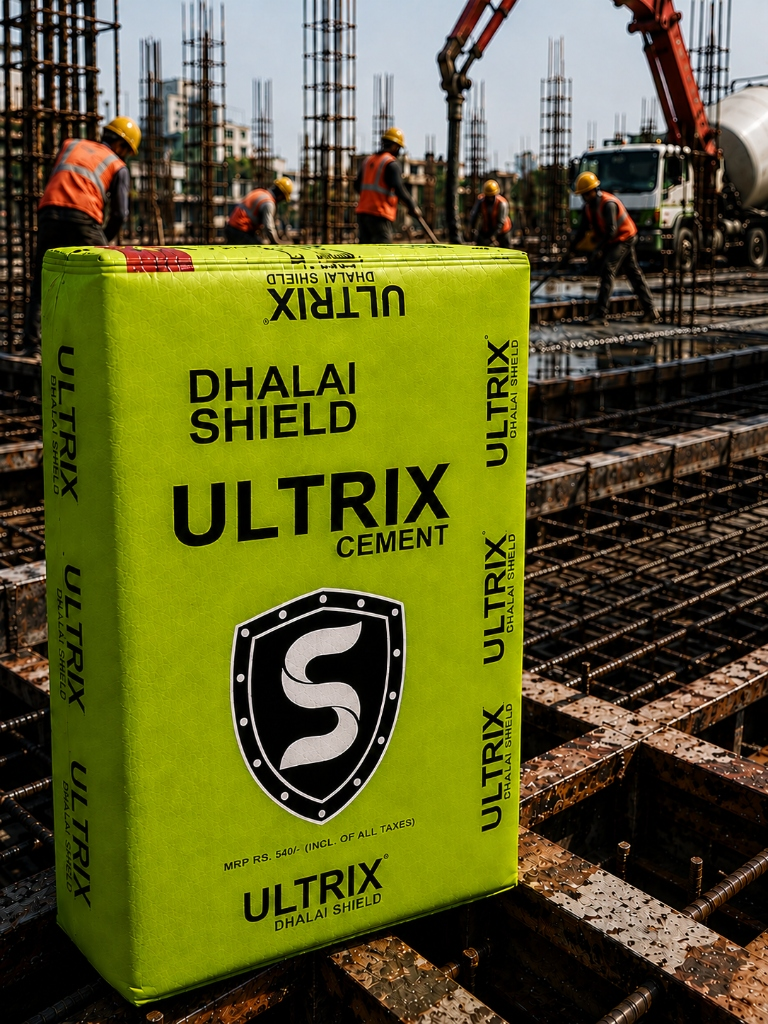
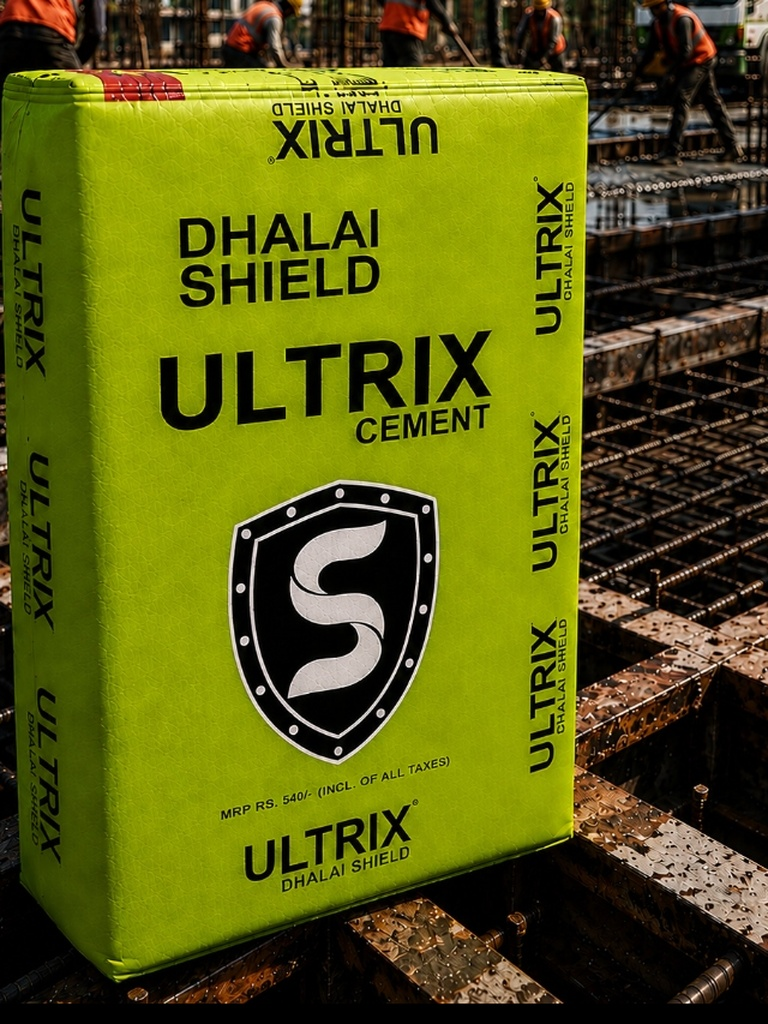
Physically crop and center Ultrix Dhalai Shield bag asset to perfectly align scale and foreground framing with all cement products

diff --git a/dist/index.html b/dist/index.html
@@ -756,7 +756,7 @@
                                 </div>
 
                                 <div class="h-64 sm:h-72 mb-3 relative flex items-center justify-center bg-slate-100 rounded-xl border border-slate-200 group overflow-hidden shadow-inner w-full">
-                                    <img src="/ultrix_dhalai_shield_bag.jpg" alt="ULTRIX CEMENT DHALAI SHIELD Bag" loading="lazy" decoding="async" class="w-full h-full object-cover object-[24%_72%] scale-[1.75] group-hover:scale-[1.80] transition-transform duration-500"/>
+                                    <img src="/ultrix_dhalai_shield_bag.jpg" alt="ULTRIX CEMENT DHALAI SHIELD Bag" loading="lazy" decoding="async" class="w-full h-full object-cover object-center scale-105 group-hover:scale-110 transition-transform duration-500"/>
                                 </div>
 
                                 <div class="grid grid-cols-2 gap-2 mb-3 font-technical-data text-xs bg-slate-50/90 p-2.5 rounded-lg border border-slate-200 text-center">

diff --git a/index.html b/index.html
@@ -756,7 +756,7 @@
                                 </div>
 
                                 <div class="h-64 sm:h-72 mb-3 relative flex items-center justify-center bg-slate-100 rounded-xl border border-slate-200 group overflow-hidden shadow-inner w-full">
-                                    <img src="/ultrix_dhalai_shield_bag.jpg" alt="ULTRIX CEMENT DHALAI SHIELD Bag" loading="lazy" decoding="async" class="w-full h-full object-cover object-[24%_72%] scale-[1.75] group-hover:scale-[1.80] transition-transform duration-500"/>
+                                    <img src="/ultrix_dhalai_shield_bag.jpg" alt="ULTRIX CEMENT DHALAI SHIELD Bag" loading="lazy" decoding="async" class="w-full h-full object-cover object-center scale-105 group-hover:scale-110 transition-transform duration-500"/>
                                 </div>
 
                                 <div class="grid grid-cols-2 gap-2 mb-3 font-technical-data text-xs bg-slate-50/90 p-2.5 rounded-lg border border-slate-200 text-center">
